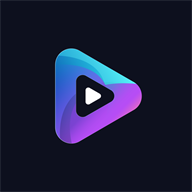
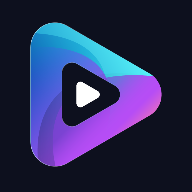
feat(browser): add polished PWA support

Changed region(s): [[0.1562, 0.0938, 0.8438, 0.875]]

diff --git a/index.html b/index.html
@@ -51,7 +51,7 @@
     <title>Nuvio</title>
     <link rel="icon" type="image/png" href="assets/brand/nuvio-favicon.png" />
     <link rel="manifest" href="manifest.webmanifest" />
-    <link rel="apple-touch-icon" sizes="180x180" href="assets/brand/pwa-icon-180.png" />
+    <link rel="apple-touch-icon" sizes="180x180" href="assets/brand/pwa-apple-touch-icon-180.png" />
 
     <link rel="stylesheet" href="css/base.css?v=20260509s" />
     <link rel="stylesheet" href="css/layout.css?v=20260509s" />
